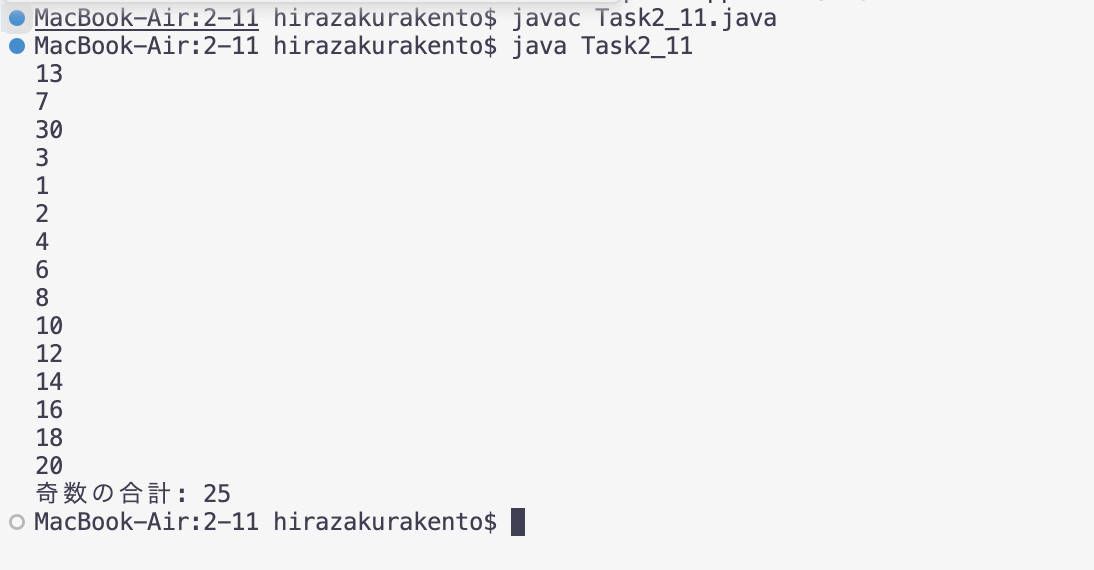
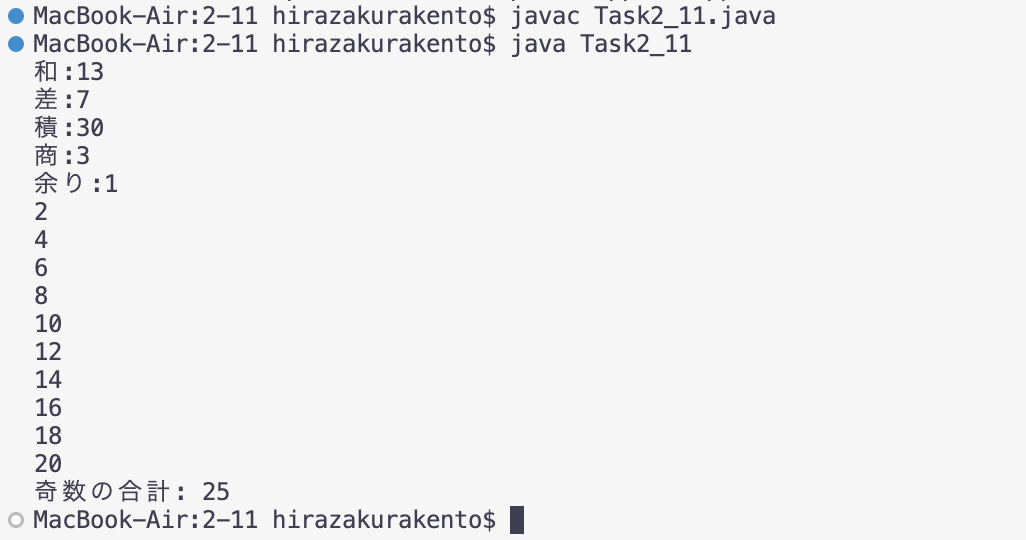
2-11

Changed region(s): [[0.0, 0.0, 0.7485, 1.0]]

diff --git a/2-11/Task2_11.java b/2-11/Task2_11.java
@@ -24,11 +24,11 @@ public class Task2_11 {
     int a = 10;
     int b = 3;
 
-    System.out.println(a + b);
-    System.out.println(a - b);
-    System.out.println(a * b);
-    System.out.println(a / b);
-    System.out.println(a % b);
+    System.out.println("和:" + (a + b));
+    System.out.println("差:" + (a - b));
+    System.out.println("積:" + (a * b));
+    System.out.println("商:" + (a / b));
+    System.out.println("余り:" + (a % b));
     
 
     /*
